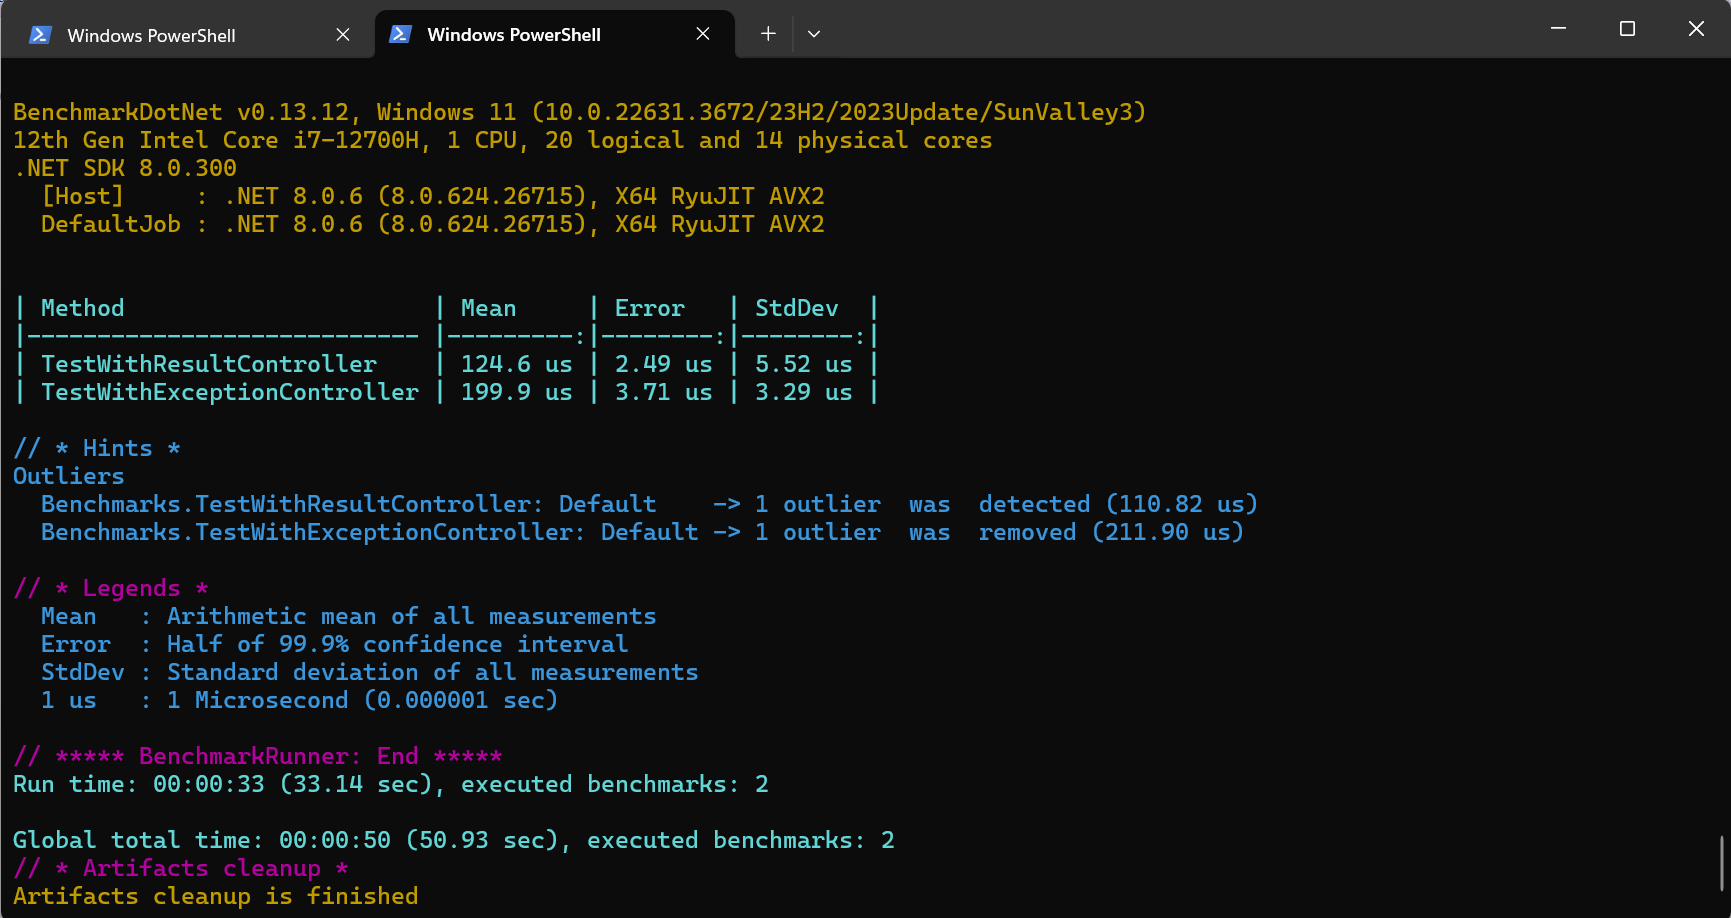
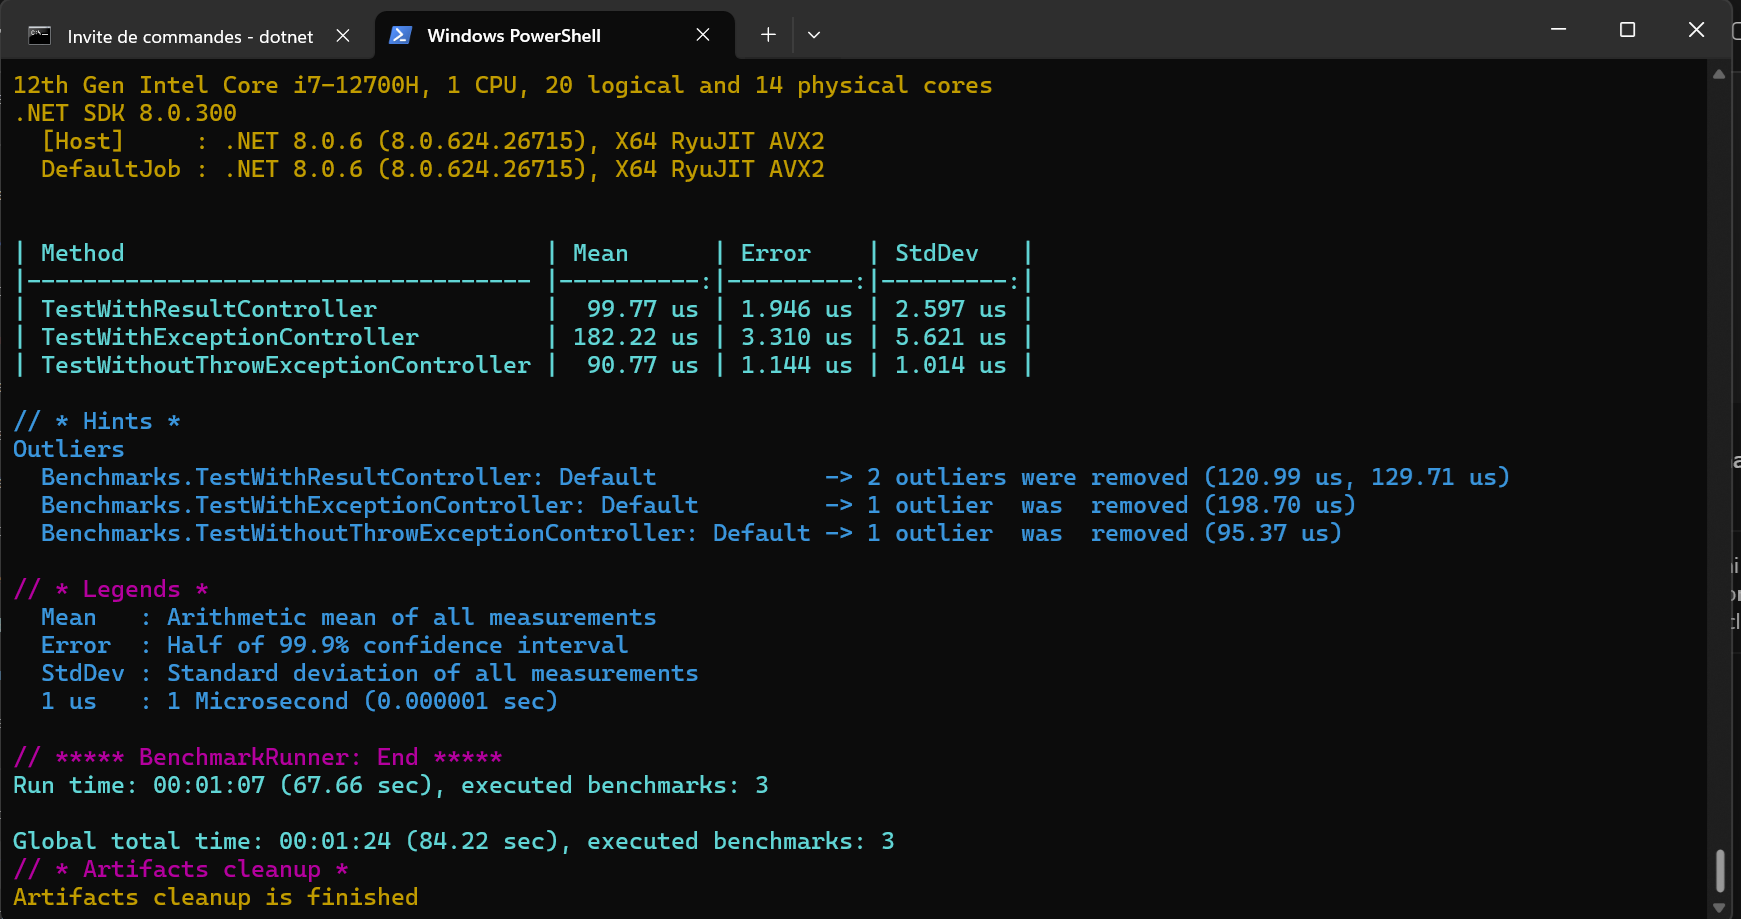
adding TestWithoutThrowExceptionController() update benchmark_resuts

diff --git a/ExceptionVsResult.Benchmark/Benchmarks.cs b/ExceptionVsResult.Benchmark/Benchmarks.cs
@@ -7,6 +7,7 @@ namespace ExceptionVsResult.Benchmark
         private readonly HttpClient _httpClient = new HttpClient();
         private const string TestWithResultUrl = "http://localhost:5220/TestWithResult/NoMatchingValue";
         private const string TestWithExceptionUrl = "http://localhost:5220/TestWithException/NoMatchingValue";
+        private const string TestHasValueWithExceptionUrl = "http://localhost:5220/TestWithException/HasValue";
         [GlobalSetup]
         public void Setup()
         {
@@ -27,5 +28,13 @@ namespace ExceptionVsResult.Benchmark
             var response = await _httpClient.GetAsync(TestWithExceptionUrl);
             _ = await response.Content.ReadAsStringAsync();
         }
+
+        [Benchmark]
+        public async Task TestWithoutThrowExceptionController()
+        {
+            var response = await _httpClient.GetAsync(TestHasValueWithExceptionUrl);
+            _ = await response.Content.ReadAsStringAsync();
+        }
+
     }
 }
